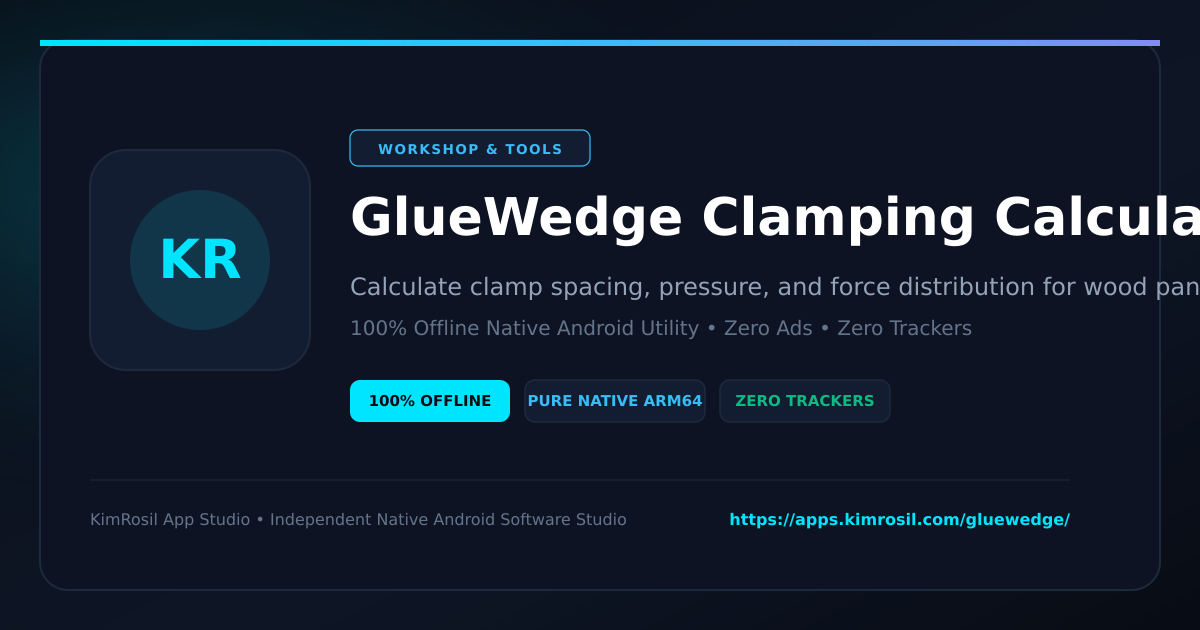
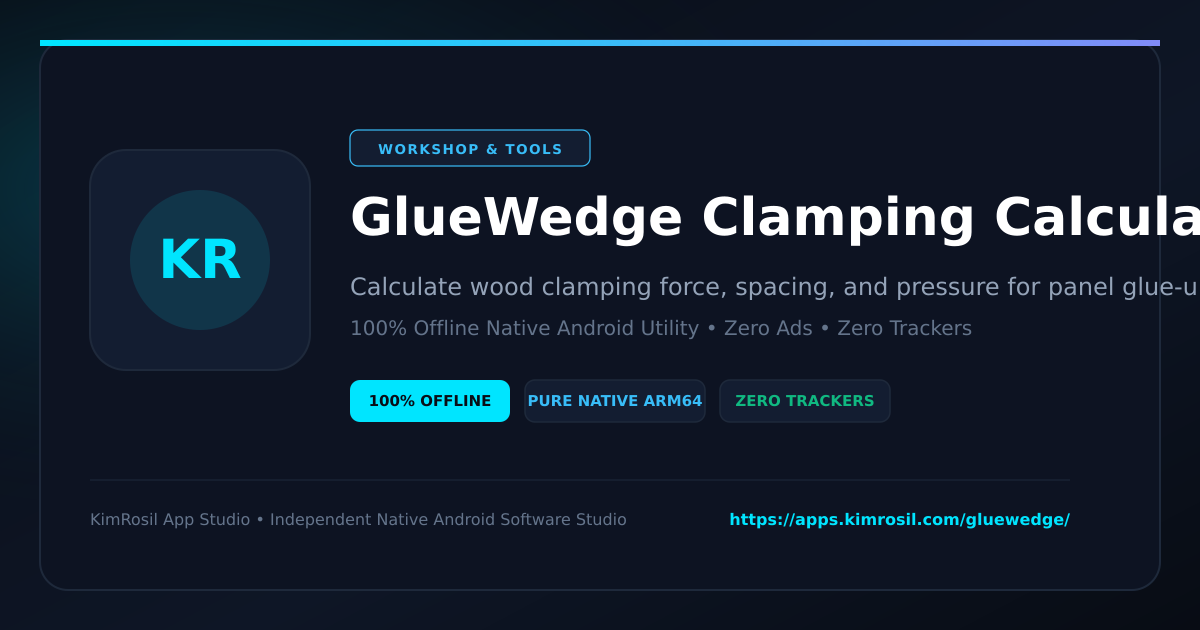
chore: Update Play Store listing & catalog for GlueWedge Clamping Calculator

Changed region(s): [[0.4008, 0.4222, 1.0, 0.4825]]

diff --git a/gluewedge/index.html b/gluewedge/index.html
@@ -4,7 +4,7 @@
     <meta charset="UTF-8">
     <meta name="viewport" content="width=device-width, initial-scale=1.0, maximum-scale=5.0, viewport-fit=cover">
     <title>GlueWedge Clamping Calculator – Offline Android App | KimRosil Studio</title>
-    <meta name="description" content="Calculate clamp spacing, pressure, and force distribution for wood panel. Download the 100% offline, zero-tracking Android APK free from KimRosil App Studio.">
+    <meta name="description" content="Calculate wood clamping force, spacing, and pressure for panel glue-ups. Download the 100% offline, zero-tracking Android APK free from KimRosil App Studio.">
     <meta name="keywords" content="GlueWedge Clamping Calculator, offline workshop tools, android fabrication calculator, engineering utility, privacy first apk, KimRosil App Studio">
     <meta name="author" content="KimRosil App Studio">
     <meta name="application-name" content="GlueWedge Clamping Calculator">
@@ -44,7 +44,7 @@
     <meta property="og:url" content="https://apps.kimrosil.com/gluewedge/">
     <meta property="og:site_name" content="KimRosil App Studio">
     <meta property="og:title" content="GlueWedge Clamping Calculator – Offline Android App | KimRosil Studio">
-    <meta property="og:description" content="Calculate clamp spacing, pressure, and force distribution for wood panel. Download the 100% offline, zero-tracking Android APK free from KimRosil App Studio.">
+    <meta property="og:description" content="Calculate wood clamping force, spacing, and pressure for panel glue-ups. Download the 100% offline, zero-tracking Android APK free from KimRosil App Studio.">
     <meta property="og:image" content="https://apps.kimrosil.com/assets/banners/gluewedge.png">
     <meta property="og:image:secure_url" content="https://apps.kimrosil.com/assets/banners/gluewedge.png">
     <meta property="og:image:type" content="image/png">
@@ -56,7 +56,7 @@
     <meta name="twitter:card" content="summary_large_image">
     <meta name="twitter:url" content="https://apps.kimrosil.com/gluewedge/">
     <meta name="twitter:title" content="GlueWedge Clamping Calculator – Offline Android App | KimRosil Studio">
-    <meta name="twitter:description" content="Calculate clamp spacing, pressure, and force distribution for wood panel. Download the 100% offline, zero-tracking Android APK free from KimRosil App Studio.">
+    <meta name="twitter:description" content="Calculate wood clamping force, spacing, and pressure for panel glue-ups. Download the 100% offline, zero-tracking Android APK free from KimRosil App Studio.">
     <meta name="twitter:image" content="https://apps.kimrosil.com/assets/banners/gluewedge.png">
     <meta name="twitter:image:alt" content="GlueWedge Clamping Calculator Social Preview">
 
@@ -76,7 +76,7 @@
         "priceCurrency": "USD",
         "availability": "https://schema.org/InStock"
     },
-    "description": "Calculate clamp spacing, pressure, and force distribution for wood panel.",
+    "description": "Calculate wood clamping force, spacing, and pressure for panel glue-ups.",
     "image": "https://apps.kimrosil.com/assets/icons/gluewedge.png",
     "downloadUrl": "https://github.com/eliakimrosil/kimrosil-app-studio/releases/download/v1.1.0-gluewedge/gluewedge.apk",
     "softwareVersion": "1.1.0",
@@ -592,7 +592,7 @@
             </div>
             <div class="app-titles">
                 <h1>GlueWedge Clamping Calculator</h1>
-                <p class="tagline">Calculate clamp spacing, pressure, and force distribution for wood panel.</p>
+                <p class="tagline">Calculate wood clamping force, spacing, and pressure for panel glue-ups.</p>
             </div>
         </header>
 
@@ -675,13 +675,13 @@
                 const cCount = document.getElementById('resGlueClamps').innerText;
                 const cSpace = document.getElementById('resGlueSpacing').innerText;
                 const cForce = document.getElementById('resGlueForce').innerText;
-                const txt = '--- Gluewedge Clamping Plan ---
-' +
-                    'Clamps: ' + cCount + ' (Spacing: ' + cSpace + ')
-' +
-                    'Total Clamping Force: ' + cForce + '
-' +
-                    '[Computed via GlueWedge • https://apps.kimrosil.com/gluewedge/]';
+                const lines = [
+                    '--- Gluewedge Clamping Plan ---',
+                    'Clamps: ' + cCount + ' (Spacing: ' + cSpace + ')',
+                    'Total Clamping Force: ' + cForce,
+                    '[Computed via GlueWedge • https://apps.kimrosil.com/gluewedge/]'
+                ];
+                const txt = lines.join(String.fromCharCode(10));
                 navigator.clipboard.writeText(txt).then(() => alert('Clamping plan copied!'));
             }
             window.addEventListener('DOMContentLoaded', runGlueCalc);
@@ -699,7 +699,7 @@
 
         <section class="content-section">
             <h2>Overview &amp; Core Capabilities</h2>
-            <div class="desc"><p>GlueWedge is an offline workshop calculator engineered for woodworkers, cabinetmakers, and luthiers assembling edge-glued panels, tabletops, and cutting boards. Achieving flawless glue lines requires exact clamping pressure and proper tool spacing. Under-clamping causes joint separation, while excessive pressure squeezes out vital adhesive bonds. Placing clamps too far apart violates the 45-degree stress cone rule, leaving uncompressed joint gaps that fail over time. GlueWedge solves panel assembly geometry with precision calculations tailored to your lumber species and adhesive type. Key Features: • Force Cone Clamping Geometry: Calculate optimal clamp spacing along panel edges based on stock thickness to prevent internal voids and joint separation. • Target PSI Pressure Calculator: Determine required clamping force for softwoods, hardwoods, and dense exotics without risking glue starvation. • Alternating Clamp Distribution: Balance top and bottom clamp placement to eliminate panel bowing, cupping, and assembly twist. • Open Assembly Timer: Track working life and adhesive tack times before clamping to avoid dry joints in warm shop environments. • Species and Adhesive Matrix: Pre-loaded clamping pressure benchmarks for PVA, polyurethane, epoxy, and hide glues across standard lumber densities. • Offline Workshop Utility: Functions completely without internet or cellular connectivity in basement shops and metal pole barns. • Zero Subscriptions or Ads: No interrupted workflows during critical glue assemblies. No accounts, tracking, or background telemetry. Optimize your panel glue-ups with repeatable clamping calculations built for shop reliability.</p><p><br>Data Safety & Offline Privacy Guarantee:<br>- 100% Offline: This application operates entirely on your device without requiring an active internet connection.<br>- Zero Data Collection: We do not collect, monitor, track, store, or transmit any personal identifiable information (PII), device identifiers, or usage telemetry.<br>- No Accounts or Subscriptions: Enjoy complete utility with zero account creation, logins, or hidden recurring fees.<br>- Local Storage Only: All items, history, and preferences are retained strictly within on-device sandboxed storage.</p></div>
+            <div class="desc"><p>GlueWedge provides workshop-tested clamping calculations for woodworkers, cabinetmakers, and luthiers assembling edge-glued panels. Achieving proper clamping pressure is critical when building tabletops, cutting boards, instrument bodies, and cabinet doors. Applying too much force starves joints of essential adhesive, while insufficient force or incorrect clamp intervals cause invisible interior voids and joint failure. GlueWedge calculates required clamping pressure, total load, and 45-degree force distribution patterns directly on your device. Calculated Woodworking Engineering: - PSI and Total Force Targets: Calculate total clamping force and PSI requirements based on wood species density (softwoods, medium hardwoods, dense exotics) and joint surface area. - 45-Degree Stress Cone Distribution: Determine optimal clamp spacing to eliminate pressure deadzones across edge glues. - Clamp Load Balancing: Input clamp types (parallel bar, pipe clamp, F-clamp, T-bar) to determine exact clamp counts and torque adjustments. - Alternating Clamp Layouts: Prevent panel cupping and buckling with top and bottom clamp placement ratios. - Metric and Imperial Units: Seamlessly switch between inches, millimeters, pounds-force (lbf), and newtons (N). Built for Real Workshop Environments: - Fully Offline Utility: Functions completely without internet access, cellular reception, or background connections in metal barns, basements, and remote shops. - Zero Subscriptions or Accounts: No sign-ups, no monthly fees, and no locked features during time-sensitive glue assemblies. - Clean Display: High-contrast layout designed for fast readability on the workbench.</p><p><br>Data Safety & Offline Privacy Guarantee:<br>- 100% Offline: This application operates entirely on your device without requiring an active internet connection.<br>- Zero Data Collection: We do not collect, monitor, track, store, or transmit any personal identifiable information (PII), device identifiers, or usage telemetry.<br>- No Accounts or Subscriptions: Enjoy complete utility with zero account creation, logins, or hidden recurring fees.<br>- Local Storage Only: All items, history, and preferences are retained strictly within on-device sandboxed storage.</p></div>
         </section>
 
         <section class="tech-specs-card">
